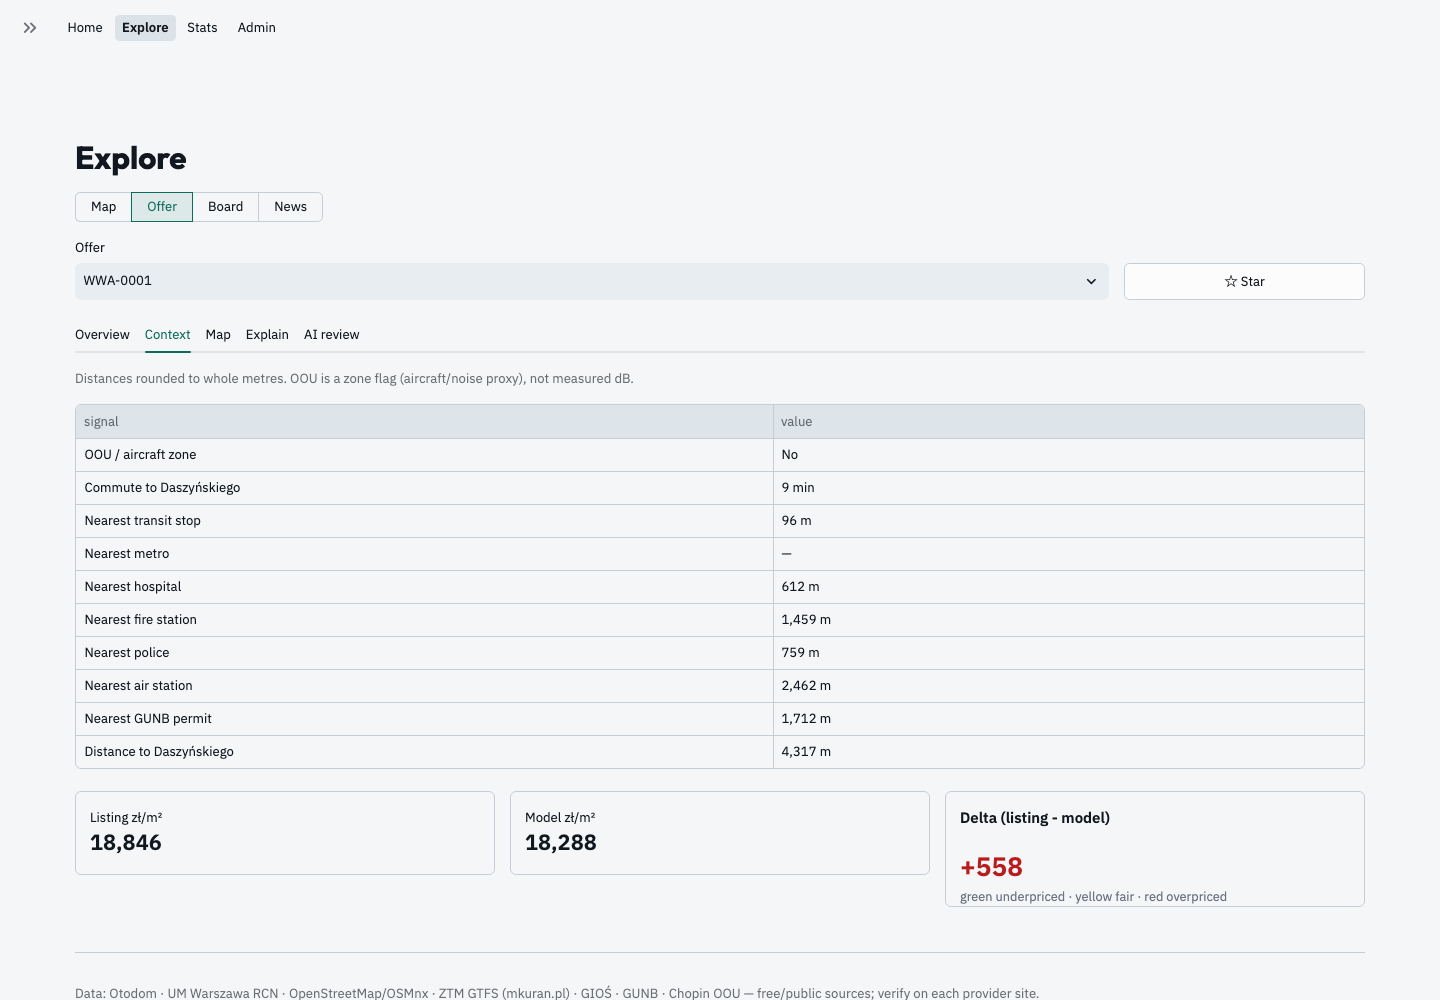
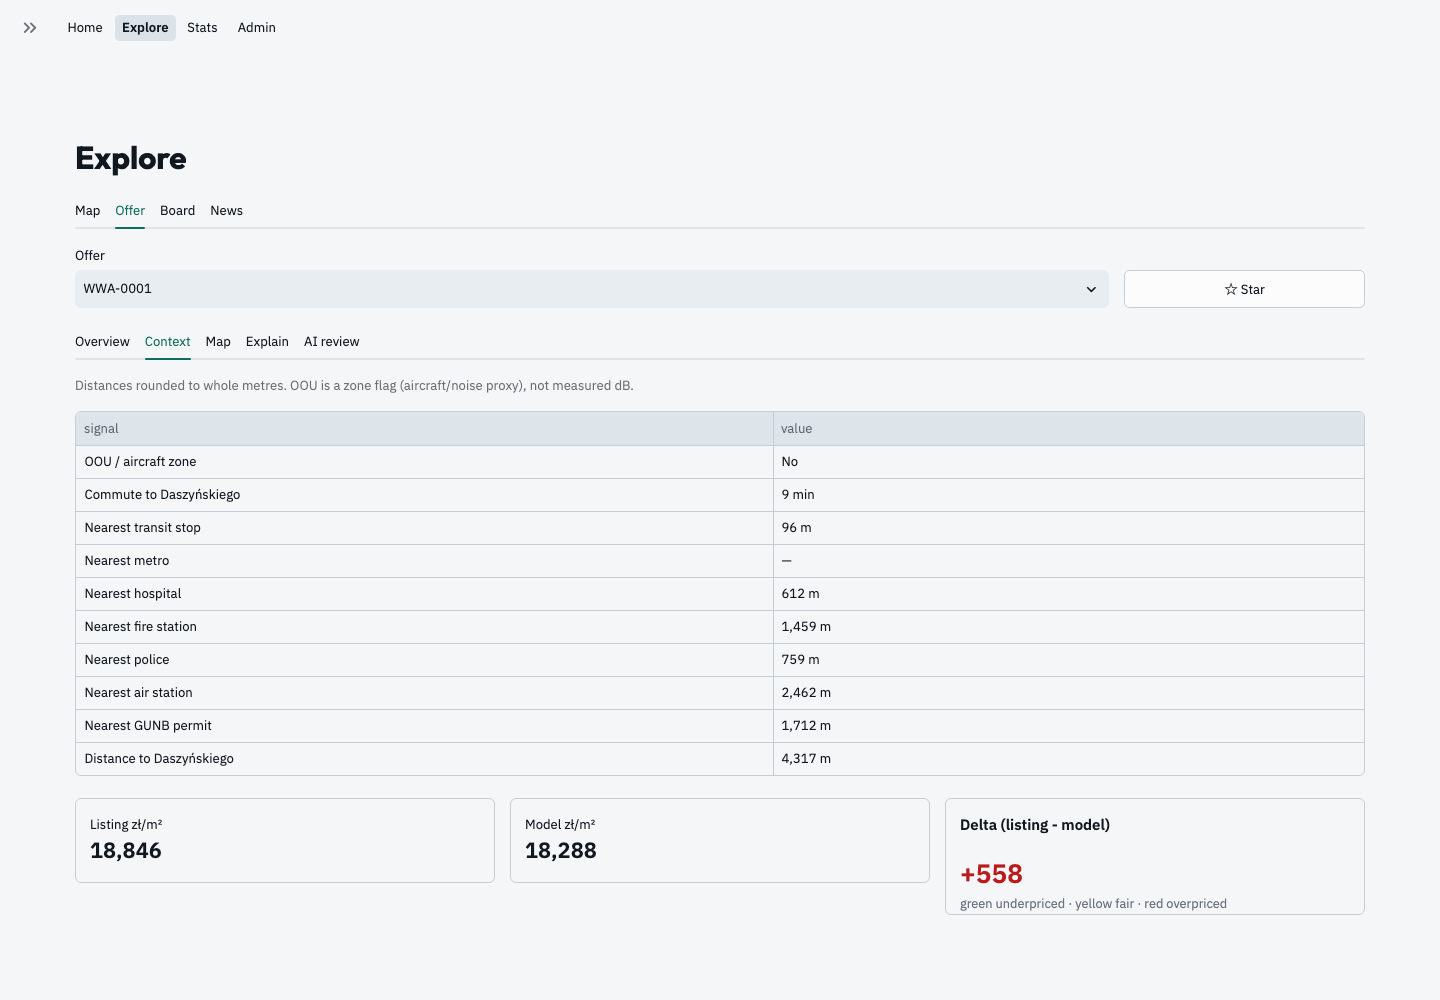
fix(app): use standard Streamlit tabs on Explore
Replace segmented_control section switcher with st.tabs (lazy via
on_change=rerun); refresh Explore README screenshots.

diff --git a/src/happy_housing/app/page_explore.py b/src/happy_housing/app/page_explore.py
@@ -1,4 +1,4 @@
-"""Explore page: sidebar filters + Map / Offer / Board sections."""
+"""Explore page: sidebar filters + Map / Offer / Board / News tabs."""
 
 from __future__ import annotations
 
@@ -651,14 +651,6 @@ def render_explore() -> None:
 
     if "explore_section" not in st.session_state:
         st.session_state["explore_section"] = "Map"
-    section = st.segmented_control(
-        "Section",
-        options=list(EXPLORE_SECTIONS),
-        key="explore_section",
-        label_visibility="collapsed",
-    )
-    if section is None:
-        section = "Map"
     map_kwargs = {
         "oou": oou,
         "amenities": amenities,
@@ -674,22 +666,31 @@ def render_explore() -> None:
         "commute_lon": float(config.commute_target_lon),
         "commute_lat": float(config.commute_target_lat),
     }
-    if section == "Map":
-        if starred_only:
-            st.caption(f"Starred only · {len(map_board)} offers")
-        _tab_map(map_board, **map_kwargs)
-    elif section == "Offer":
-        _tab_offer(
-            filtered,
-            starred=starred,
-            stars_file=stars_file,
-            lm_model=app_settings.lm_model,
-            ai_review_on_open=app_settings.ai_review_on_offer_open,
-            **map_kwargs,
-        )
-    elif section == "Board":
-        if starred_only:
-            st.caption(f"Starred only · {len(map_board)} offers")
-        _tab_board(map_board, starred=starred)
-    else:
-        _tab_news(starred=starred, items=news_items, news_file=news_file)
+    tab_map, tab_offer, tab_board, tab_news = st.tabs(
+        list(EXPLORE_SECTIONS),
+        key="explore_section",
+        on_change="rerun",
+    )
+    with tab_map:
+        if tab_map.open:
+            if starred_only:
+                st.caption(f"Starred only · {len(map_board)} offers")
+            _tab_map(map_board, **map_kwargs)
+    with tab_offer:
+        if tab_offer.open:
+            _tab_offer(
+                filtered,
+                starred=starred,
+                stars_file=stars_file,
+                lm_model=app_settings.lm_model,
+                ai_review_on_open=app_settings.ai_review_on_offer_open,
+                **map_kwargs,
+            )
+    with tab_board:
+        if tab_board.open:
+            if starred_only:
+                st.caption(f"Starred only · {len(map_board)} offers")
+            _tab_board(map_board, starred=starred)
+    with tab_news:
+        if tab_news.open:
+            _tab_news(starred=starred, items=news_items, news_file=news_file)

diff --git a/scripts/capture_readme_screenshots.py b/scripts/capture_readme_screenshots.py
@@ -31,11 +31,6 @@ def _tab(page: Page, label: str) -> None:
     page.wait_for_timeout(2500)
 
 
-def _segment(page: Page, label: str) -> None:
-    page.get_by_role("radio", name=label).click()
-    page.wait_for_timeout(3000)
-
-
 def main() -> None:
     """Capture Home / Explore / Stats / Admin screenshots for the README."""
     OUT.mkdir(parents=True, exist_ok=True)
@@ -55,9 +50,9 @@ def main() -> None:
         _nav(page, "Explore")
         page.wait_for_timeout(4000)
         _shot(page, "04-explore-map.png")
-        _segment(page, "Board")
+        _tab(page, "Board")
         _shot(page, "05-explore-board.png")
-        _segment(page, "Offer")
+        _tab(page, "Offer")
         _shot(page, "06-explore-offer.png")
         try:
             _tab(page, "Context")
